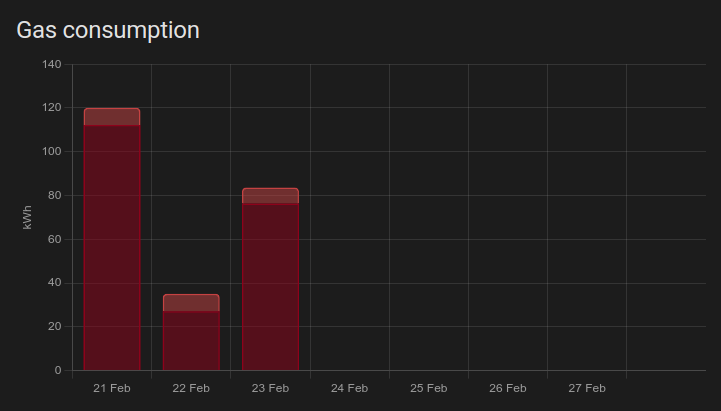
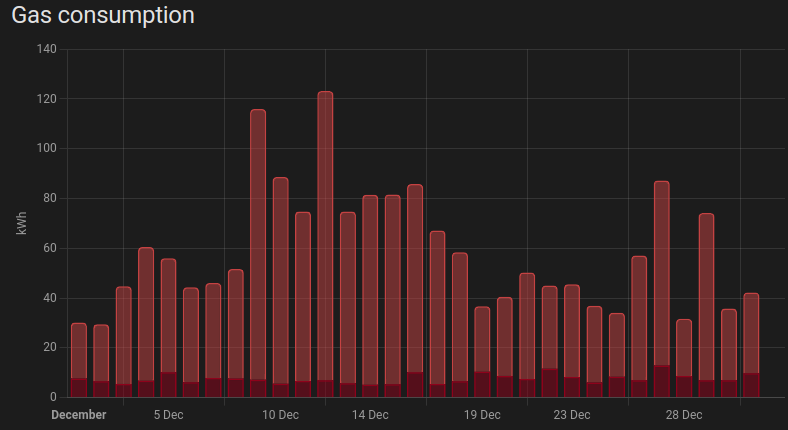
CLI deployment

diff --git a/current/_posts/2022-02-23-virtual-gas-meters-in-home-assistant.md b/current/_posts/2022-02-23-virtual-gas-meters-in-home-assistant.md
@@ -1,0 +1,101 @@
+---
+author: Sean Blanchfield
+comments: true
+date: 2022-02-23 22:58:15+00:00
+layout: post
+link: https://seanblanchfield.com/virtual-gas-meters-home-assistant/
+slug: virtual-gas-meters-home-assistant
+title: Virtual Gas Meters in Home Assistant
+image: /images/2022/02/gas-consumption.png
+tags:
+- Code
+- Home Automation
+---
+
+
+Unfortunately, we do not have smart gas meters in Ireland. However, I realised that I could use Home Assistant to create virtual gas meters, which provide a good real-time estimate of gas usage. 
+
+The only appliance that uses gas in our house is our combi-boiler, which has the job of heating the radiators for central heating, and heating domestic hot water. In my [previous post](/2022/02/automating-heating-with-home-assistant) I discussed how I took direct control of my central heating by replacing Nest with a z-wave relay controlled by Home Assistant. This meant that Home Assistant now knew exactly when the boiler was burning gas. So long as the radiators are balanced and the TRVs are properly set, then the boiler should only be switched on when heating is required, during which time it should use a steady amount of gas. This conclusion allowed me to create some virtual energy sensors based on boiler run time, and add these into 
+the Home Assistant Energy dashboard.  
+
+![](/images/2022/02/gas-consumption.png)
+
+Gas consumption chart from the Home Assistant Energy Dashboard
+
+## Tracking Central Heating Gas Usage
+
+To start with, I needed to study gas consumption vs boiler activity.   
+
+{% raw %}
+``` yaml
+sensor boiler_energy:
+ - platform: history_stats
+   name: 'Boiler Cumulative Time Today'
+   entity_id: switch.combi_boiler_relay_switch
+   state: "on"
+   type: time
+   start: "{{ now().replace(hour=0, minute=0, second=0) }}"
+   end: "{{ now() }}"
+```
+{% endraw %}
+
+I then started taking manual readings from my gas meter, and noting them down in a spreadsheet along with the value of the '_Boiler Cumulative Time Today_' sensor. The meter readings were in cubic meters, which I could convert to kWh by multiplying by the "conversion factor" given on my gas utility bills. My current conversion factor is 11.401kWh / cubic meter, but this can vary depending on the source of the gas supply.  My comparing the meter readings to the number of hours the boiler ran between each reading, I could estimate that I was typically using about 14kWh of gas every hour that the boiler was on.  
+![Recorded number of hours the boiler ran each day, as the Spring weather improved)](/images/2022/02/cumulative_boiler_run_time.png){: .captioned }
+
+I stored my estimate of 14000 Wh/hour in a new input helper called `input_number.combi_boiler_power_usage`, and then created a new template sensor that evaluates to the boiler’s current power consumption in Watts:  
+
+
+{% raw %}
+``` yaml
+template:
+ - sensor:
+   - name: combi_boiler_current_power_usage
+     unique_id: combi_boiler_current_power_usage
+     unit_of_measurement: W
+     device_class: power
+     state_class: measurement
+     state: >
+       {{ is_state('switch.combi_boiler_relay_switch', 'on') | iif(states('input_number.combi_boiler_power_usage'), 0) }}
+```
+{% endraw %}
+
+
+The state of the above sensor will evaluate to zero if the boiler relay switch is off, or to the value of the `input_number.combi_boiler_power_usage` input helper if the boiler is on. Some note on the attributes defined above:
+
+*   `unit_of_measurement: W` is important. According to the docs for the [integration](https://www.home-assistant.io/integrations/integration/) platform, a sensor that measures in units of “W” will be integrated into an energy sensor in units of kWh.
+*   `device_class: power` is important. From my testing, this is necessary for the integration platform to produce an output sensor that has the attribute `device_class: energy`, which is necessary for it to work with the Energy Dashboard.
+*   `state_class: measurement`. According to the [sensor platform docs](https://developers.home-assistant.io/docs/core/entity/sensor/#available-state-classes) this describes the sensor as measuring a current value (vs a predicted value or an aggregate of some kind), and it is necessary to opt into long-term statistics. I haven’t tested if it is strictly necessary for our purposes, but it seems like good practice.
+
+
+I then added a new sensor using the [integration](https://www.home-assistant.io/integrations/integration/) platform (i.e., the Home Assistant integration called "integration", in the calculus sense of the word) to integrate (as in sum up) the boiler power over time to get total energy. I originally implemented this in yaml, but these days you can achieve the same thing by adding an Integration helper.
+
+![Turning the power sensor into an energy sensor using an Integration helper](/images/2022/02/integration-helper.png){: .captioned .left-half }
+
+Here is the original yaml code that achieved the same thing:
+
+``` yaml
+sensor:
+ - platform: integration
+   name: boiler_energy_kwh
+   source: sensor.combi_boiler_current_power_usage
+   unit_prefix: k
+   method: left
+```
+
+I could then go to the Energy Dashboard and add this new sensor `sensor.boiler_energy_kwh` as a “_Gas Source_”.  
+
+## Tracking Domestic Hot Water Gas Usage
+
+My combi boiler also heats hot water for the shower and wash basins in the house. It is supplied with pumped tank water for this. Whenever a hot water tap / faucet opens, the pump starts and the boiler heats the water on the fly. The pump is only feeds the boiler, and nothing else. I could therefore apply a similar strategy to track gas used to heat hot water. All I needed to do was figure out when the pump was running, and what the average gas used was per second.
+
+I installed a [Shelly 1PM](https://www.shelly.cloud/en-ie/products/product-overview/shelly-plus-1-pm-2-pack/shelly-plus-1-pm) to track the pump activity. Whenever the pump is consuming energy, I know that the boiler is heating hot water.
+
+To calculate gas energy used for domestic hot water heating, I studied gas usage during a period during the Summer, when central heating was completely turned off. I noted that during a period of about 80 days, the pump ran for 33.549 hours and that 40.78 cubic meters (464.995 kWh) of gas was used (according to manual readings taken from the physical gas meter). This means that my boiler has a gas power consumption of 13.86kW for domestic hot water heating.
+
+I then used a similar strategy as outlined above for central heating to get this represented in Home Assistant. 
+
+## If you made it this far...
+  
+A *virtual energy sensor strategy* exists, which allows you to use some prior knowledge about a device energy consumption and some current knowledge about device state to work out how much power the device is currently using. You can go wild and apply this strategy to most of the electrical devices in your house, and get a very detailed real-time and actionable picture of your energy consumption.
+
+Bram Gerritsen has created the wonderful [Powercalc](https://github.com/bramstroker/homeassistant-powercalc) integration to do just this. In [my next post](/2022/02/virtual-energy-meters-with-powercalc) I describe how I used Powercalc to accurately track power for the majority of devices in my house without using any power meters.

diff --git a/current/_posts/2022-02-23-automating-heating-with-home-assistant.md b/current/_posts/2022-02-23-automating-heating-with-home-assistant.md
@@ -121,70 +121,7 @@ Smart TRVs are cheaply available, such as the ZigBee-controlled [HY386](https://
 
 I haven’t decided if these benefits are compelling enough to warrant the installation of eleven new battery-hungry devices around the house.
 
-## **Bonus Achievement: Monitoring Gas Energy**
 
-Unfortunately we do not have smart gas meters in Ireland. However, I realised that I could now make some reliable estimates of real-time gas consumption in Home Assistant. My only gas powered appliance is my boiler, and now that boiler is exclusively controlled by Home Assistant. So long as the radiators are balanced and the TRVs are properly set, then the boiler should only be switched on when heating is required, during which time it should use a steady amount of gas. This conclusion allowed me to create some virtual energy sensors based on boiler run time, and add these into the Home Assistant Energy dashboard.  
+## If you made it this far...
 
-![](/images/2022/02/gas-consumption.png)
-
-Gas consumption chart from the Home Assistant Energy Dashboard
-
-To start with, I needed to track how long the boiler was run for.   
-
-{% raw %}
-``` yaml
-sensor boiler_energy:
- - platform: history_stats
-   name: 'Boiler Cumulative Time Today'
-   entity_id: switch.combi_boiler_relay_switch
-   state: "on"
-   type: time
-   start: "{{ now().replace(hour=0, minute=0, second=0) }}"
-   end: "{{ now() }}"
-```
-{% endraw %}
-
-I then started taking manual readings from my gas meter, and noting them down in a spreadsheet along with the value of the '_Boiler Cumulative Time Today_' sensor. The meter readings were in cubic meters, which I could convert to kWh by multiplying by the "conversion factor" given on my gas utility bills. My current conversion factor is 11.401kWh / cubic meter, but this can vary depending on the source of the gas supply.  My comparing the meter readings to the number of hours the boiler ran between each reading, I could estimate that I was typically using about 14kWh of gas every hour that the boiler was on.  
-![Recorded number of hours the boiler ran each day, as the Spring weather improved)](/images/2022/02/cumulative_boiler_run_time.png){: .captioned }
-
-I stored my estimate of 14000 Wh/hour in a new input helper called `input_number.combi_boiler_power_usage`, and then created a new template sensor that evaluates to the boiler’s current power consumption in Watts:  
-
-
-{% raw %}
-``` yaml
-template:
- - sensor:
-   - name: combi_boiler_current_power_usage
-     unique_id: combi_boiler_current_power_usage
-     unit_of_measurement: W
-     device_class: power
-     state_class: measurement
-     state: >
-       {{ is_state('switch.combi_boiler_relay_switch', 'on') | iif(states('input_number.combi_boiler_power_usage'), 0) }}
-```
-{% endraw %}
-
-
-The state of the above sensor will evaluate to zero if the boiler relay switch is off, or to the value of the `input_number.combi_boiler_power_usage` input helper if the boiler is on. Some note on the attributes defined above:
-
-*   `unit_of_measurement: W` is important. According to the docs for the [integration](https://www.home-assistant.io/integrations/integration/) platform, a sensor that measures in units of “W” will be integrated into an energy sensor in units of kWh.
-*   `device_class: power` is important. From my testing, this is necessary for the integration platform to produce an output sensor that has the attribute `device_class: energy`, which is necessary for it to work with the Energy Dashboard.
-*   `state_class: measurement`. According to the [sensor platform docs](https://developers.home-assistant.io/docs/core/entity/sensor/#available-state-classes) this describes the sensor as measuring a current value (vs a predicted value or an aggregate of some kind), and it is necessary to opt into long-term statistics. I haven’t tested if it is strictly necessary for our purposes, but it seems like good practice.
-
-
-I then added a new sensor using the [integration](https://www.home-assistant.io/integrations/integration/) platform (i.e., the Home Assistant integration called "integration", in the calculus sense of the word) to integrate (as in sum up) the boiler power over time to get total energy:  
-
-``` yaml
-sensor:
- - platform: integration
-   name: boiler_energy_kwh
-   source: sensor.combi_boiler_current_power_usage
-   unit_prefix: k
-   method: left
-```
-
-I could then go to the Energy Dashboard and add this new sensor `sensor.boiler_energy_kwh` as a “_Gas Source_”.  
-
-## **Next Steps**
-
-The virtual energy sensor approach is basically to use some prior knowledge about a device’s energy profile and some current knowledge about its state to work out how much power it is currently using. I realised that I could apply this strategy to a wide range of electrical devices in the house. About 5 minutes later I realised that I wasn’t the first person to think of this, and that Bram Gerritsen had already created the wonderful [Powercalc](https://github.com/bramstroker/homeassistant-powercalc) integration to do just this. In my next post I’ll describe how I used Powercalc to accurately track power for the majority of devices in my house without using any power meters.
+If your home heating is similar to mine, you might also be interested in how I created [virtual gas meters using Home Assistant](/2022/02/virtual-gas-meters-home-assistant), to give me a real-time view into our gas usage. 
